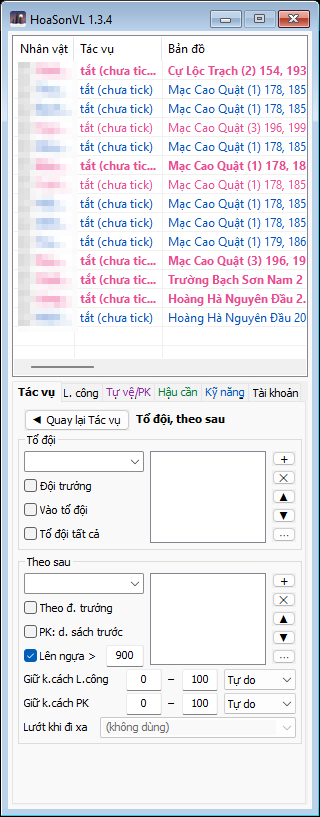
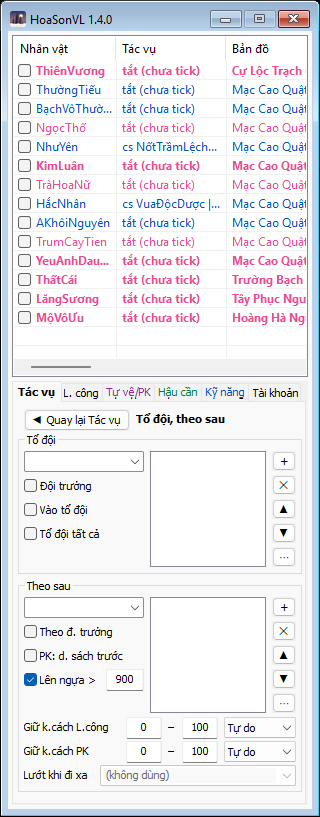
Hướng dẫn: thêm mục Trường Ca (chiến đội) - lập nhóm từ bảng nhân vật, hộp thiết lập, một chuyến đi; ảnh tab Tác vụ và trang Tổ đội mới

Changed region(s): [[0.0312, 0.0306, 0.9688, 0.3978], [0.0625, 0.5508, 0.9375, 0.9792], [0.3125, 0.0, 0.3438, 0.0306]]

diff --git a/docs/index.html b/docs/index.html
@@ -50,7 +50,7 @@ figure{margin:0}
 .box.warn{background:var(--warn-bg);color:var(--ink);border-left:4px solid var(--warn)}
 .box b{font-weight:700}
 .tip{font-size:13.5px;color:var(--muted)}
-ul{margin:6px 0 6px 20px;padding:0;max-width:72ch}
+ul,ol{margin:6px 0 6px 20px;padding:0;max-width:72ch}
 li{margin:3px 0}
 table{border-collapse:collapse;font-size:13.5px;margin:10px 0;max-width:100%}
 th,td{text-align:left;padding:6px 10px;border-bottom:1px solid var(--line);vertical-align:top}
@@ -87,6 +87,7 @@ kbd{font-family:var(--mono);font-size:12.5px;background:var(--paper);border:1px 
   <div class="grp">Sáu tab</div>
   <a href="#tacvu">Tác vụ</a>
   <a class="sub" href="#hop">· Hộp riêng của từng tác vụ</a>
+  <a class="sub" href="#truongca">· Trường Ca (chiến đội)</a>
   <a class="sub" href="#todoi">· Tổ đội, theo sau</a>
   <a class="sub" href="#thuong">· Thưởng, tiện ích</a>
   <a href="#luyencong">L. công</a>
@@ -164,7 +165,8 @@ kbd{font-family:var(--mono);font-size:12.5px;background:var(--paper);border:1px 
 <b>Bấm vào dòng</b><span>Chọn nhân vật để xem và sửa thiết lập ở các tab. Giữ <kbd>Ctrl</kbd> hoặc <kbd>Shift</kbd> để chọn nhiều nhân vật và sửa cùng lúc một ô (ví dụ bật Tự theo sau cho cả nhóm).</span>
 <b>Kéo thả dòng</b><span>Đổi thứ tự nhân vật trong bảng.</span>
 <b>Bấm đúp vào dòng</b><span>Ẩn hoặc hiện lại cửa sổ game của nhân vật đó. Tiện khi chạy nhiều game mà màn hình chật.</span>
-<b>Chuột phải vào bảng</b><span>Mở hộp "Tùy chọn hiển thị" để chọn cột nào hiện (ảnh bên dưới). Kéo tiêu đề cột để đổi chỗ, kéo mép để đổi rộng.</span>
+<b>Chuột phải vào tiêu đề cột</b><span>Mở hộp "Tùy chọn hiển thị" để chọn cột nào hiện (ảnh bên dưới). Kéo tiêu đề cột để đổi chỗ, kéo mép để đổi rộng.</span>
+<b>Chuột phải vào dòng</b><span>Menu của các dòng đang chọn: thêm / xoá nhân vật, đăng nhập, gán proxy, lập chiến đội Trường Ca (mục <a href="#truongca">Trường Ca</a>)…</span>
 <b>Bấm đúp thanh tiêu đề</b><span>Chuyển sang giao diện rộng: bảng chiếm bên trái với đủ cột, bên phải là bản đồ nhỏ của nhân vật đang chọn (chấm xanh là mình, chấm khác là người / quái quanh) và các tab. Bấm đúp lần nữa để về cửa sổ hẹp.</span>
 <b>Cột Tác vụ</b><span>Việc bot đang làm, tóm tắt một dòng, ví dụ "luyện công", "mua thuốc", "theo sau X", "tắt (chưa tick)".</span>
 </div>
@@ -216,8 +218,9 @@ kbd{font-family:var(--mono);font-size:12.5px;background:var(--paper);border:1px 
 <tr><td>Năng động</td><td>Làm các hoạt động được tick trong hộp riêng cho tới khi đủ điểm năng động giới hạn.</td></tr>
 <tr><td>Đào kho báu</td><td>Dùng Tàng Bảo Đồ trong túi: đi tới chỗ đào, đào, nộp.</td></tr>
 <tr><td>Liên đấu, Tống Kim (BD), Hoa Đăng, Cấm Địa Phái</td><td>Đến giờ thì đi báo danh, vào trận và đánh. Tống Kim có hộp riêng chọn bên báo danh. Chuột phải: hẹn giờ.</td></tr>
+<tr><td>Trường Ca</td><td>Cả chiến đội (tối đa 6) vào Trường Ca Sơn Trang luyện công kinh nghiệm cao. Lập chiến đội ở bảng nhân vật, chuột phải dòng để thiết lập. Xem mục <a href="#truongca">Trường Ca</a>.</td></tr>
 <tr><td>Nhận thưởng Thẻ tháng, Nhận buff Bang hội, Hít lửa trại</td><td>Các việc nhỏ mỗi ngày: tới Lễ Quan nhận thưởng thẻ tháng, nhận buff bang, đứng cạnh lửa trại.</td></tr>
-<tr><td>Trường Ca, Phong Lăng Độ, Bán hàng, Chiến lệnh</td><td>Ghi "(sắp có)": chưa làm được trong bản này, tick cũng không có tác dụng.</td></tr>
+<tr><td>Phong Lăng Độ, Bán hàng, Chiến lệnh</td><td>Ghi "(sắp có)": chưa làm được trong bản này, tick cũng không có tác dụng.</td></tr>
 </table></div>
 <p class="tip">Chuột phải vào một dòng (trừ Luyện công) để mở hộp thiết lập riêng của tác vụ đó, xem mục kế tiếp.</p>
 </div></div>
@@ -278,6 +281,59 @@ kbd{font-family:var(--mono);font-size:12.5px;background:var(--paper);border:1px 
 <b>Ăn Tiên Thảo Lộ, Năng động 25 điểm, Lập đội</b><span>Ba việc mỗi ngày của nhân vật mới; Năng động làm Hằng ngày, Mặc Thạch, Môn phái. Lập đội và mời người quanh mình khi trang Tổ đội để trống.</span>
 <b>Tiền giữ trong túi, rút, Ngọc Lộ Hoàn</b><span>Giữ bao nhiêu tiền trong túi (thừa gửi rương), rút bao nhiêu để mua, mua bao nhiêu Ngọc Lộ Hoàn (Tiểu) khi hết và ngưỡng mua bình máu / nội lực khi thiếu tiền.</span>
 </div>
+</div></div>
+
+<h3 id="truongca">Trường Ca (chiến đội)</h3>
+<p class="lead">Trường Ca Sơn Trang là bản đồ luyện công kinh nghiệm cao, mở bằng <b>Tín Vật Trường Ca</b> ở NPC <b>Trường Ca Môn Môn Nhân</b> của 7 thành lớn. Một chiến đội tối đa 6 người: người mở nhận x8 kinh nghiệm, người khác x4 (nộp thêm Tín Vật để lên x8). Tính năng mới, có từ bản sau 1.4.0.</p>
+<div class="sec">
+<figure class="shot"><img src="img/hop-chiendoi.png" alt="Hộp Lập chiến đội Trường Ca: thành viên, đội trưởng, thành mở, giờ mở tối đa, tick tác vụ cho cả nhóm" width="396" height="369"><figcaption>Lập chiến đội Trường Ca. Ảnh chụp lúc các dòng nhân vật chưa tick: hộp ghi lý do từng người và nút OK mờ.</figcaption></figure>
+<div>
+<h4>Bước 1: lập chiến đội từ bảng nhân vật</h4>
+<p>Giữ <kbd>Ctrl</kbd> chọn 1–6 nhân vật trong bảng, rồi <b>chuột phải lên nhân vật sẽ mở sơn trang</b> và chọn <b>Lập chiến đội Trường Ca...</b>. Cả nhóm nhận chung một danh sách, người mở đứng đầu.</p>
+<div class="ctl">
+<b>Đội trưởng</b><span>Người mở sơn trang, cũng là đội trưởng tổ đội. Mặc định là dòng vừa bấm chuột phải. Người này cần có Tín Vật (để ở túi hành trang cũng được, bot tự lấy ra túi đạo cụ khi mở).</span>
+<b>Thành mở</b><span>Thành có Trường Ca Môn Môn Nhân mà cả nhóm tới.</span>
+<b>Giờ mở tối đa</b><span>2, 4 hoặc 6 giờ (1 Tín Vật mở 2 giờ, mỗi Tín Vật nộp thêm +2 giờ). Đây là mức tối đa: số thật do thời gian tu luyện còn lại của cả nhóm quyết định lúc tập trung.</span>
+<b>Tick tác vụ</b><span>Tick tác vụ Trường Ca cho cả nhóm (mặc định có).</span>
+</div>
+<p>Mỗi người trong danh sách phải đạt cả bốn điều kiện, nếu không bot từ chối và ghi lý do:</p>
+<ul>
+<li>Đã mở game và đã vào game.</li>
+<li>Dòng nhân vật đang tick (bot điều khiển).</li>
+<li>Không bận: đang Luyện công, ngồi hồi, đứng không hoặc làm việc vặt vài giây là rảnh; đang làm nhiệm vụ, sự kiện hay Auto PK là bận.</li>
+<li>Không thuộc chiến đội đang đi Trường Ca.</li>
+</ul>
+<div class="ctl">
+<b>Làm đội trưởng Trường Ca</b><span>Chuột phải lên một nhân vật trong nhóm: đưa người đó lên đầu danh sách của cả nhóm (người mở mới).</span>
+<b>Giải tán chiến đội Trường Ca...</b><span>Bỏ danh sách và bỏ tick Trường Ca của cả nhóm (hỏi trước).</span>
+</div>
+<div class="box"><b>Mỗi nhân vật chỉ ở một chiến đội.</b> Lập nhóm mới mà lấy người của nhóm khác thì người đó chuyển sang nhóm mới; nhóm cũ không còn đủ người nên <b>giải tán</b> (bỏ tick Trường Ca), cần thì lập lại cho đủ. Hộp ghi rõ ai chuyển, nhóm nào giải tán trước khi bấm OK. Nhóm đang đi Trường Ca thì <b>không lập / đổi được</b>: chờ xong buổi.</div>
+</div></div>
+<div class="sec">
+<figure class="shot"><img src="img/hop-truongca.png" alt="Hộp Trường Ca: thành mở, thành viên, giờ mở tối đa, nộp Tín Vật x8, Ngọc Lộ Hoàn, tiền sửa đồ, hẹn giờ" width="416" height="509"><figcaption>Hộp Trường Ca (chuột phải dòng Trường Ca ở tab Tác vụ).</figcaption></figure>
+<div>
+<h4>Bước 2: thiết lập riêng (chuột phải dòng Trường Ca)</h4>
+<div class="ctl">
+<b>Thành mở, Thành viên, Giờ mở tối đa</b><span>Như hộp Lập chiến đội. Mỗi dòng một tên, dòng đầu là người mở. Sửa ở đây cũng theo đúng luật nhóm ở trên và chép sang cả nhóm.</span>
+<b>Thành viên nộp Tín Vật để nhận x8</b><span>Riêng từng người (0–3). Thành viên nộp ở NPC trước khi vào, mỗi Tín Vật cho 1 giờ hiệu quả x2 (từ x4 lên x8).</span>
+<b>Mang Ngọc Lộ Hoàn-Lâu (Đại)</b><span>Mua số giờ × 2 bình trước lần vào đầu tiên trong ngày (mỗi bình 30 phút), chỉ ăn khi đã ở trong sơn trang. Mặc định tick; thay dòng mua thuốc của Hậu cần cho chuyến này.</span>
+<b>Mang tiền sửa đồ</b><span>Mang theo 5 vạn mỗi giờ, thêm 10 vạn mỗi giờ cho mỗi món Hoàng Kim đang mặc (không tính nhẫn, hạng liên, ngọc bội). Ví dụ 3 món Hoàng Kim, đi 4 giờ: 3 × 4 × 10 + 4 × 5 = 140 vạn. Mặc định tick; thay "Gửi tiền" của Hậu cần cho chuyến này.</span>
+<b>Hẹn giờ</b><span>Như các tác vụ khác.</span>
+</div>
+<p class="tip">Bỏ tick hai ô Ngọc Lộ Hoàn / tiền: bot dùng thiết lập Mua thuốc và Gửi tiền của tab Hậu cần như bình thường. Nhớ xếp Trường Ca <b>trên</b> Luyện công trong danh sách tác vụ của người mở.</p>
+</div></div>
+<div class="sec wide"><div>
+<h4>Một chuyến đi diễn ra thế nào</h4>
+<ol>
+<li><b>Tập trung.</b> Người mở tới NPC ở thành đã chọn; các thành viên bỏ việc đang làm và tới ngay. Mỗi người hỏi NPC "Kiểm tra thời gian tu luyện".</li>
+<li><b>Đồng bộ điều kiện.</b> Người mở chờ tối đa 10 phút cho cả danh sách vào đội và có số thời gian. Số Tín Vật dùng = theo thời gian tu luyện <b>còn ít nhất</b> trong nhóm (mỗi Tín Vật 2 giờ), không quá Giờ mở tối đa, số Tín Vật đang có và 3 Tín Vật mỗi ngày.</li>
+<li><b>Huỷ chuyến</b> khi: có người còn dưới 2 giờ tu luyện (người mở cần hơn 2 giờ), quá 10 phút vẫn thiếu người, hoặc có người đã xong Trường Ca hôm nay. Cả nhóm tính là xong hôm nay và quay về Luyện công / tác vụ đang tick; hôm sau tự thử lại.</li>
+<li><b>Mở.</b> Người mở chọn "Ta muốn mở Trường Ca Sơn Trang", vào sơn trang, rồi ra qua Bia Đá nộp thêm Tín Vật ("Tăng thời gian Trường Ca Sơn Trang đã mở") và vào lại. Các thành viên vào bằng "Ta muốn vào Trường Ca Sơn Trang đã mở" → dòng tên người mở → "Vào".</li>
+<li><b>Trong sơn trang.</b> Luyện công quanh 5 điểm (chưa có quái thì đứng chờ ở điểm gần nhất). Dùng hàng kỹ năng / vật phẩm có Hoạt động "Trường Ca" nếu có, không thì hàng Luyện công. Các tác vụ khác tạm tắt. Luôn chung tổ đội với người mở.</li>
+<li><b>Máu thấp, cần về thành.</b> Sơn trang cấm phù về thành, Thổ Địa Phù, Tiên Thảo Lộ. Máu dưới mốc TĐP, hết bình, đầy túi…: bot chạy ra Bia Đá, mua đồ, hồi máu rồi vào lại.</li>
+<li><b>Rớt mạng, chết, bị đưa ra.</b> Vào lại cùng cách. Người vào lại bị game xếp vào đội cũ thì tự rời ra, vào đội người mở. Không còn thấy tên người mở trong danh sách (sơn trang hết giờ) thì xong hôm nay.</li>
+</ol>
+<div class="box warn"><b>Thời gian tu luyện</b> do máy chủ giữ: mỗi ngày cộng 2 giờ, tối đa 10 giờ, trừ từng phút ở trong sơn trang. Buổi kéo qua 0h thì phần sau 0h trừ vào ngày mới. Ví dụ 22h còn 6 giờ, mở 6 giờ: tới 4h sáng ngày mới chỉ còn 2 giờ, không đủ mở thêm.</div>
 </div></div>
 
 <h3 id="todoi">Trang con: Tổ đội, theo sau</h3>
